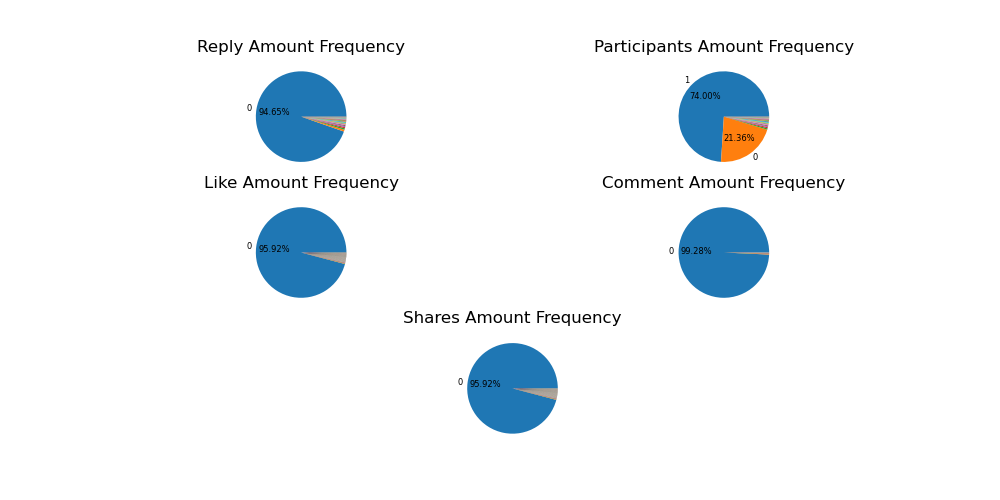
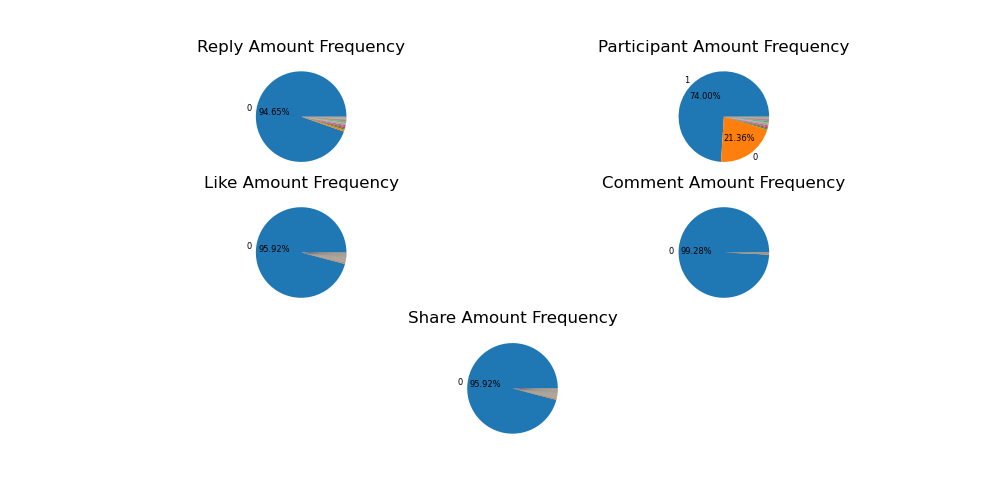
.

Changed region(s): [[0.589, 0.06, 0.868, 0.12], [0.403, 0.6, 0.62, 0.66]]

diff --git a/src/data_analysis/data_quality.py b/src/data_analysis/data_quality.py
@@ -51,16 +51,14 @@ def generate_null_bar_chart():
 df = pd.read_csv("./data/fake.csv")
 
 # Dropped Columns with Frequencies
-from matplotlib.gridspec import GridSpec
-
 gs=GridSpec(3,2)
 
 plt.figure(figsize=(10, 5))
 generate_frequency_pie_chart("replies_count", "Reply Amount Frequency", "replies_count_pie_chart", gs, 0, 0)
-generate_frequency_pie_chart("participants_count", "Participants Amount Frequency", "participants_count_pie_chart", gs, 0, 1)
+generate_frequency_pie_chart("participants_count", "Participant Amount Frequency", "participants_count_pie_chart", gs, 0, 1)
 generate_frequency_pie_chart("likes", "Like Amount Frequency", "likes_pie_chart", gs, 1, 0)
 generate_frequency_pie_chart("comments", "Comment Amount Frequency", "comments_pie_chart", gs, 1, 1)
-generate_frequency_pie_chart("shares", "Shares Amount Frequency", "shares_pie_chart", gs, 2, -1) # -1 to ocuppy line span
+generate_frequency_pie_chart("shares", "Share Amount Frequency", "shares_pie_chart", gs, 2, -1) # -1 to ocuppy line span
 plt.savefig("./data/plots/frequencies_pie_charts.png")
 plt.close()
 
